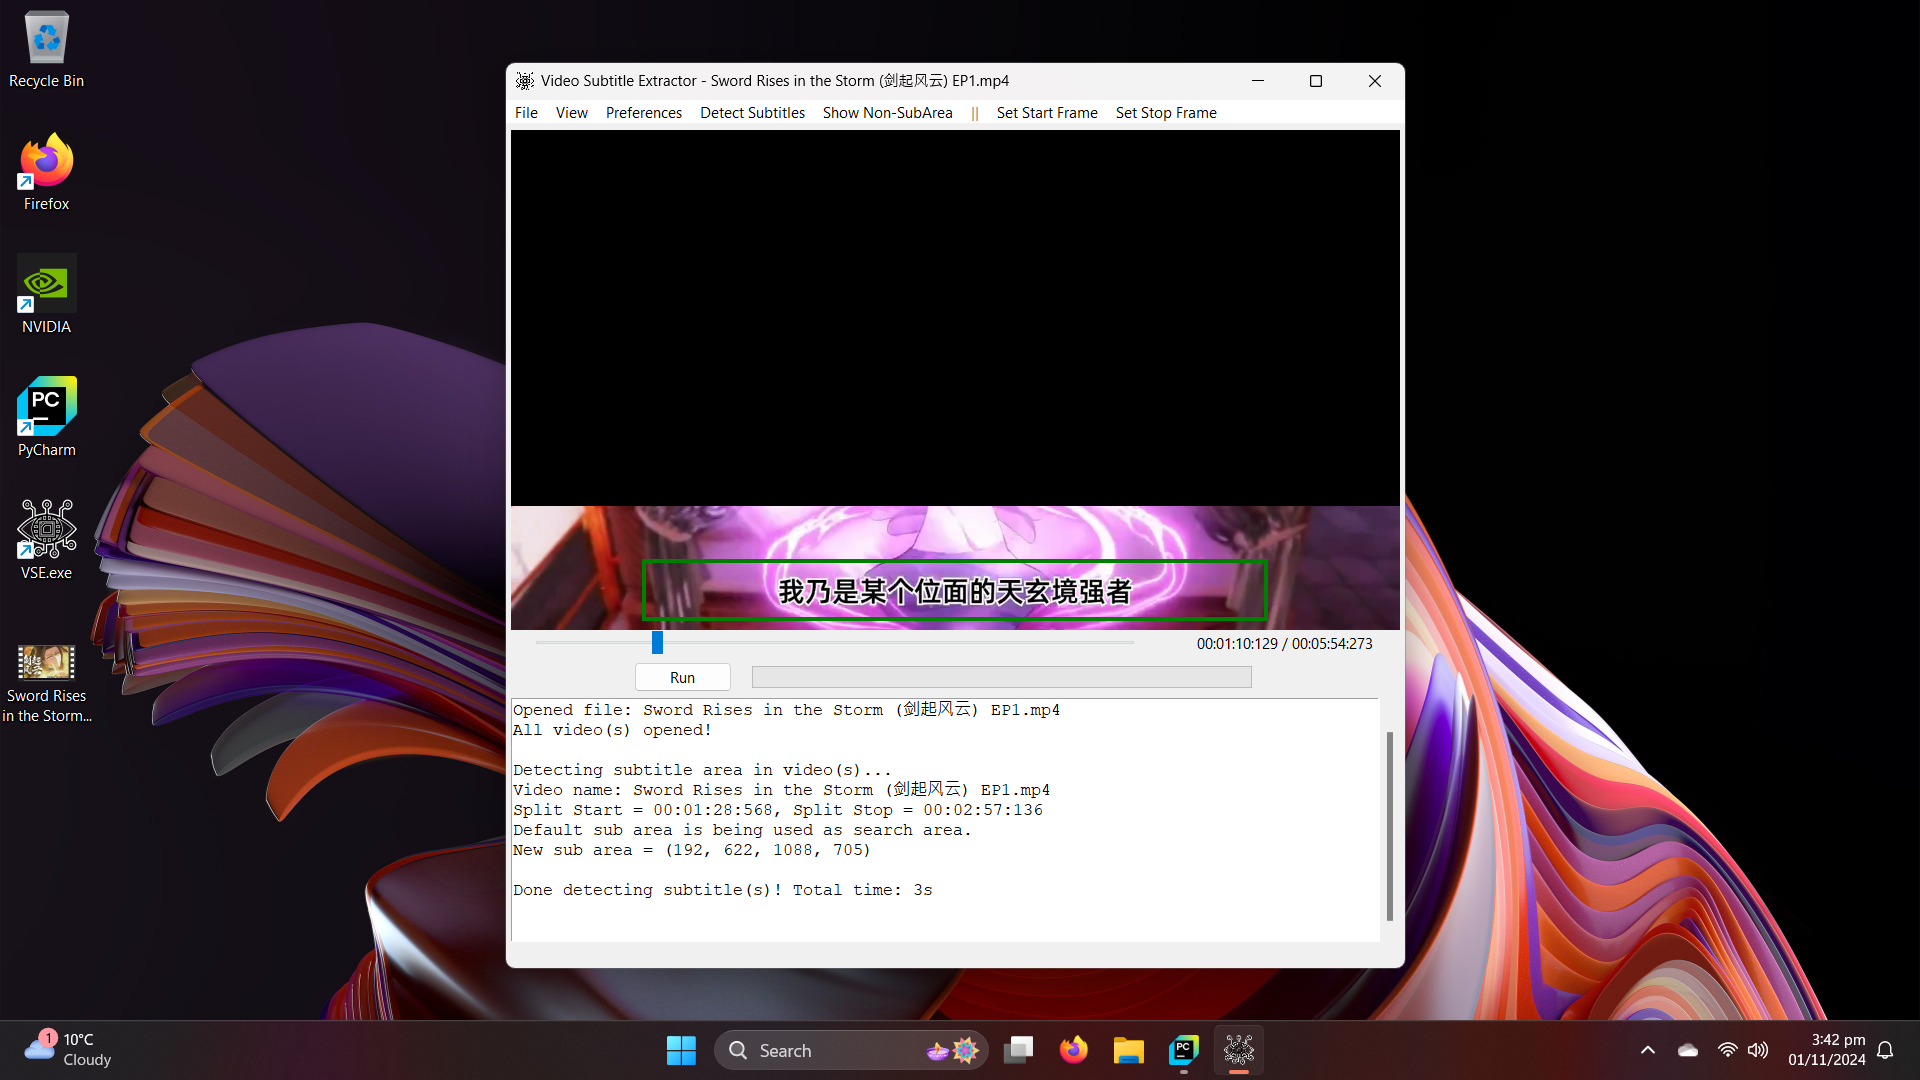
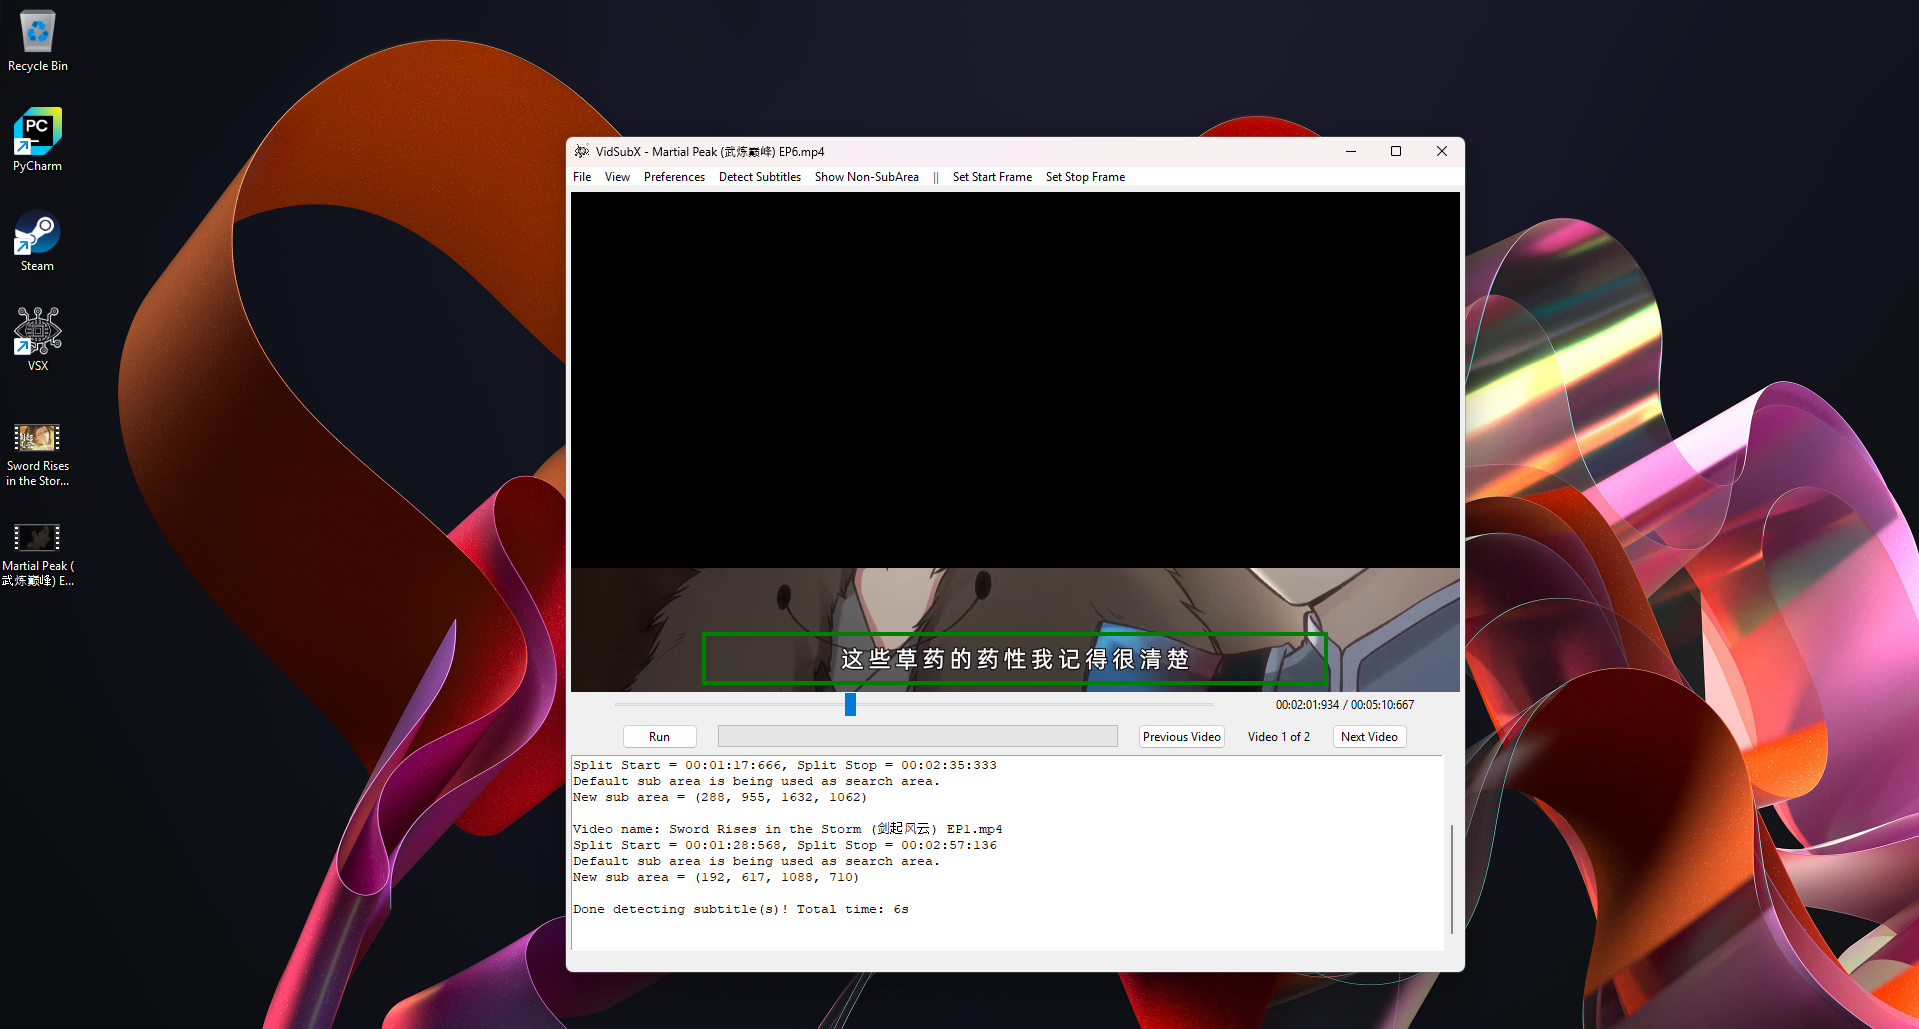
project renamed

diff --git a/compiler.py b/compiler.py
@@ -57,9 +57,9 @@ def compile_program() -> None:
         "--enable-plugin=tk-inter",
         "--windows-console-mode=disable",
         "--include-package-data=paddleocr",
-        "--include-data-files=VSE.ico=VSE.ico",
+        "--include-data-files=vsx.ico=vsx.ico",
         "--include-data-dir=models=models",
-        "--windows-icon-from-ico=VSE.ico",
+        "--windows-icon-from-ico=vsx.ico",
         "--remove-output",
         "gui.py"
     ]
@@ -70,7 +70,7 @@ def compile_program() -> None:
 def rename_exe() -> None:
     print("\nRenaming exe file...")
     exe_file = Path("gui.dist/gui.exe")
-    exe_file.rename("gui.dist/VSE.exe")
+    exe_file.rename("gui.dist/VSX.exe")
 
 
 def get_gpu_files() -> None:
@@ -85,7 +85,7 @@ def get_gpu_files() -> None:
 
 def zip_files(gpu_enabled: bool) -> None:
     print("\nZipping distribution files...")
-    name = f"{platform.system().lower()}-{'gpu' if gpu_enabled else 'cpu'}-v"
+    name = f"VSX-{platform.system()}-{'GPU' if gpu_enabled else 'CPU'}-v"
     shutil.make_archive(name, "zip", "gui.dist")
 
 

diff --git a/gui.py b/gui.py
@@ -137,8 +137,8 @@ class SubtitleExtractorGUI:
         Use ttk to create frames for gui.
         """
         # Window title and icon.
-        self.window_title = "Video Subtitle Extractor"
-        self.icon_file = "VSE.ico"
+        self.window_title = "VidSubX"
+        self.icon_file = "vsx.ico"
         self.root.title(self.window_title)
         if platform.system() == "Windows":
             self.root.iconbitmap(self.icon_file)

diff --git a/README.md b/README.md
@@ -1,4 +1,4 @@
-# Video Sub Extractor
+# VidSubX
 
 ![python version](https://img.shields.io/badge/Python-3.12-blue)
 ![support os](https://img.shields.io/badge/OS-Windows-green.svg)
@@ -54,16 +54,16 @@ A free program that extracts hard coded subtitles from a video and generates an 
 | Uzbek               | uz           | | Vietnamese        | vi           | | Mongolian    | mn           | 
 | Abaza               | abq          |
 
-**Download**
+### Download
 
 [Microsoft Visual C++ Redistributable](https://learn.microsoft.com/en-US/cpp/windows/latest-supported-vc-redist) must be
 installed. The program will not start without it.
 
-- [Windows CPU Version](https://github.com/voun7/Video_Sub_Extractor/releases/download/v1.0/VSE-windows-cpu.zip)
+- [Latest CPU & GPU Version](https://github.com/voun7/VidSubX/releases/latest)
 
 ## Demo Video
 
-[![Demo Video](docs/images/demo%20screenshot.png)](https://youtu.be/nnm_waobgnI "Demo Video")
+[![Demo Video](docs/images/demo%20screenshot.png)](https://youtu.be/i_VNDN7AMP4 "Demo Video")
 
 ## Setup Instructions
 
